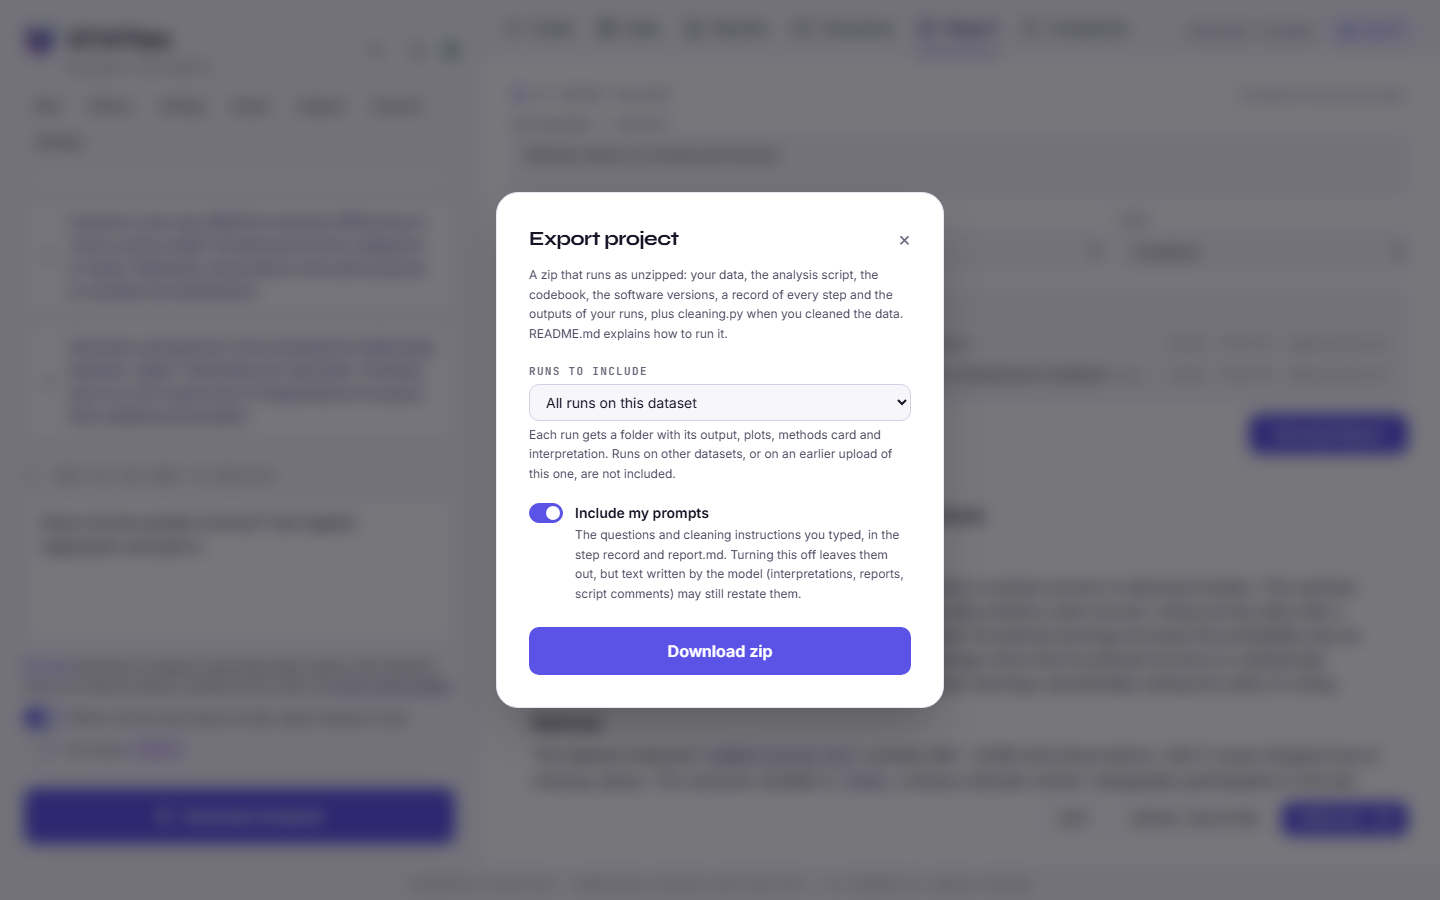
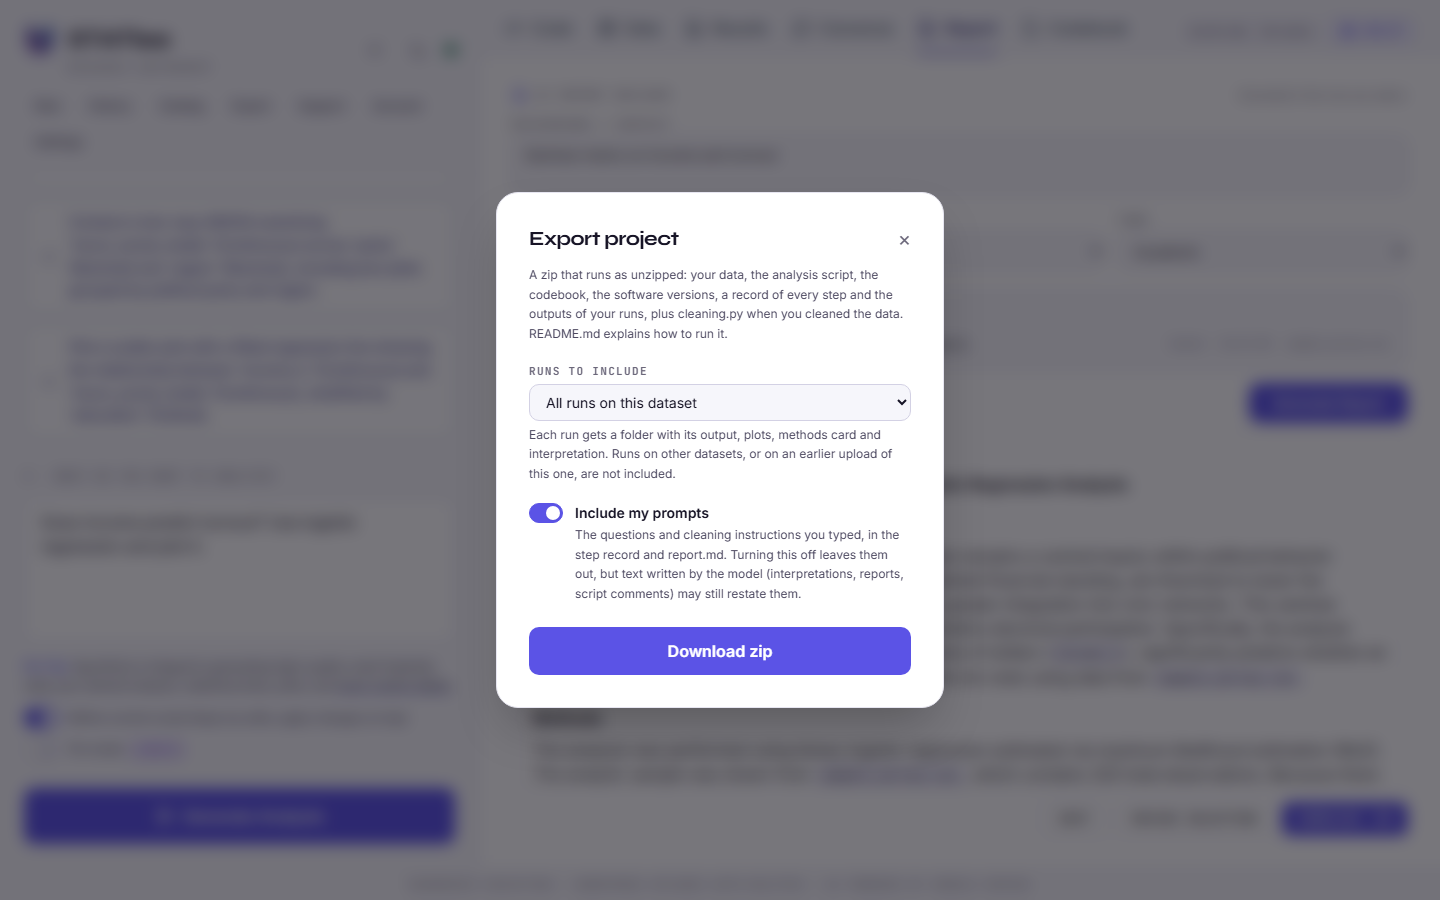
docs(readme): re-record screenshots and demo GIF on a clean first run
The analysis now succeeds on its first run, so the results still shows
the question as the run title with the Methods and assumptions card, and
the GIF goes straight from the generated script to the plot, the
interpretation, a report and the export. Alt text follows the new
captures.

Changed region(s): [[0.8438, 0.4044, 1.0, 0.5289]]

diff --git a/README.md b/README.md
@@ -41,7 +41,7 @@ that code runs:
 <table>
   <tr>
     <td><img src="docs/images/screenshot-workspace.png" width="440" alt="Workspace with the sample survey loaded: suggested analyses and the plain-English prompt in the sidebar, and the generated Python script in the code editor"></td>
-    <td><img src="docs/images/screenshot-results.png" width="440" alt="Results tab: the numbered run rail with a failed first run and its fixed rerun, the Methods and assumptions card with three passing assumption checks and the odds ratio, and the sandbox terminal output with the logistic regression table"></td>
+    <td><img src="docs/images/screenshot-results.png" width="440" alt="Results tab: the run rail titled with the question, the Methods and assumptions card with two passing assumption checks and the odds ratio, and the sandbox terminal output with the logistic regression table"></td>
   </tr>
   <tr>
     <td><img src="docs/images/screenshot-codebook.png" width="440" alt="Codebook tab: an editable table of every variable with its type, label, value labels, missing codes and role"></td>
@@ -249,7 +249,7 @@ both Docker images and these README steps on every push
 ## Demo
 
 <p align="center">
-  <img src="docs/images/demo.gif" width="900" alt="Walkthrough: load the sample survey, label two variables in the Codebook tab, ask whether income predicts turnout, watch the script stream in and run, see the first run fail and Fix with AI repair it, read the Methods and assumptions card, interpretation and plot, build a report, and export the reproducibility bundle">
+  <img src="docs/images/demo.gif" width="900" alt="Walkthrough: load the sample survey, label two variables in the Codebook tab, ask whether income predicts turnout, watch the script stream in and run in the sandbox, read the plot, the plain-English interpretation and the Methods and assumptions card, build a report, and export the reproducibility bundle">
 </p>
 
 The run uses [docs/examples/sample_survey.csv](docs/examples/sample_survey.csv),
